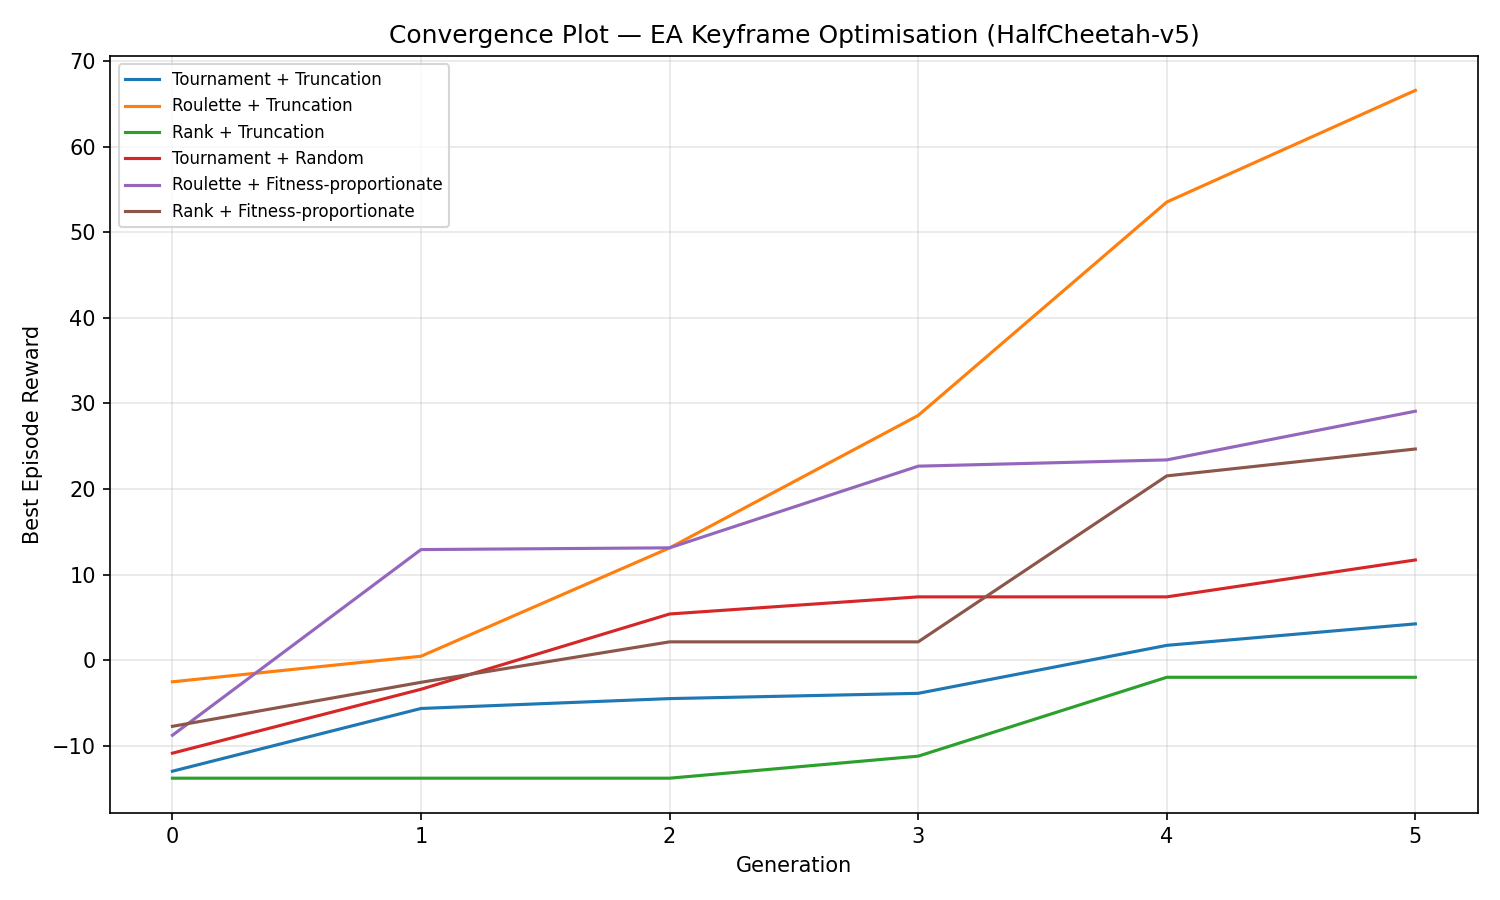
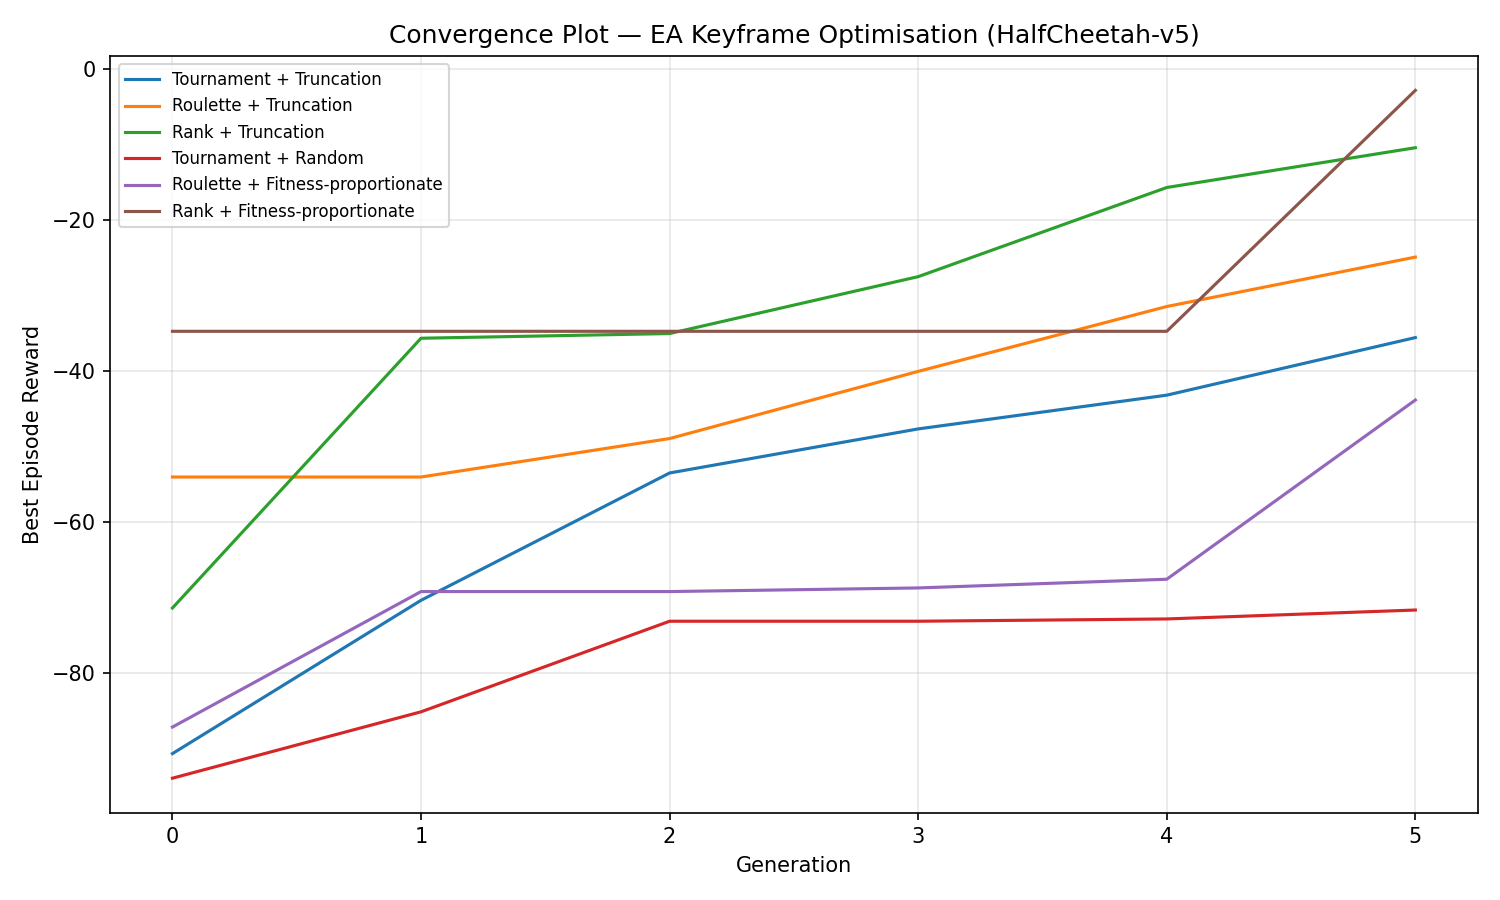
Changed values for smoother run

diff --git a/kf-halfcheetah.py b/kf-halfcheetah.py
@@ -23,24 +23,25 @@ remaining_steps = int(keyframes[keyframe_index][-1])
 episode_reward = 0
 
 while True:
-    # Select action from the current keyframe
-    action = keyframes[keyframe_index][:-1]
+    current_kf = keyframes[keyframe_index][:-1]
+    next_kf    = keyframes[(keyframe_index + 1) % K][:-1]
+    duration   = int(keyframes[keyframe_index][-1])
 
-    # Take a step in the environment
+    # Lerp from current keyframe toward next
+    t      = 1.0 - (remaining_steps / duration)
+    action = (1.0 - t) * current_kf + t * next_kf
+
     observation, reward, terminated, truncated, info = env.step(action)
-    episode_reward += reward
+    episode_reward  += reward
+    remaining_steps -= 1
 
-    env.render()    
-    remaining_steps -= 1 #for keyframe
-
-    # If the keyframe duration is completed, move to the next keyframe
     if remaining_steps == 0:
-        keyframe_index = (keyframe_index + 1) % K  # Cycle through keyframes
+        keyframe_index  = (keyframe_index + 1) % K
         remaining_steps = int(keyframes[keyframe_index][-1])
 
     if terminated or truncated:
         print(f"Episode ended. Total reward: {episode_reward}")
-        episode_reward = 0
+        episode_reward  = 0
         observation, info = env.reset()
-        keyframe_index = 0
+        keyframe_index  = 0
         remaining_steps = int(keyframes[keyframe_index][-1])

diff --git a/config.py b/config.py
@@ -1,16 +1,17 @@
 import numpy as np
 
 # Number of keyframes in the cycle
-K = 5
+K = 6
 
 # Starter keyframes from kf-halfcheetah.py (used as one individual in the initial population)
 # Each keyframe: [torque1, torque2, torque3, torque4, torque5, torque6, duration]
 starter_keyframes = [
-    np.array([-0.10,  0.05, -0.08,  0.12, -0.06,  0.03, 25]),
-    np.array([ 0.20, -0.15,  0.30, -0.10,  0.25, -0.05, 40]),
-    np.array([ 0.40, -0.40,  0.50, -0.30,  0.50, -0.20, 15]),
-    np.array([ 0.50, -0.20,  0.40, -0.15,  0.30, -0.10, 20]),
-    np.array([ 0.10,  0.00, -0.10,  0.05, -0.05,  0.02, 30]),
+    np.array([ 0.9, -0.7,  0.6, -0.6,  0.5, -0.3,  10]),
+    np.array([ 0.5, -0.9,  0.4,  0.5, -0.6,  0.7,  10]),
+    np.array([ 0.3, -0.5,  0.2,  0.8, -0.8,  0.5,   8]),
+    np.array([-0.6,  0.5, -0.3,  0.9, -0.7,  0.6,  10]),
+    np.array([ 0.5, -0.6,  0.7,  0.5, -0.9,  0.4,  10]),
+    np.array([ 0.8, -0.8,  0.5,  0.3, -0.5,  0.2,   8]),
 ]
 
 # EA hyperparameters

diff --git a/fitness.py b/fitness.py
@@ -8,7 +8,17 @@ def evaluate(keyframes, env):
     episode_reward  = 0
 
     while True:
-        # Pick action from current keyframe (all values except the last duration)
+        current_kf= keyframes[keyframe_index][:1]
+        next_kf = keyframes[(keyframe_index+1)%len(keyframes)][:1]
+        duration = int(keyframes[keyframe_index][:1])
+
+        if (duration ==0): 
+            duration=0.1
+            
+        #t goes from 0 to 1 as we move through the keyframe
+        t = 1.0 - (remaining_steps)/duration
+        
+        # Then we pick action from current keyframe (all values except the last duration)
         action = keyframes[keyframe_index][:-1]
 
         observation, reward, terminated, truncated, info = env.step(action)

diff --git a/ea.py b/ea.py
@@ -11,7 +11,7 @@ def random_chromosome(k):
     chromosome = []
 
     for _ in range(k):
-        torques  = np.random.uniform(-0.35, 0.35, 6)
+        torques  = np.random.uniform(-0.8, 0.8, 6)
         duration = float(np.random.randint(5, 51))
         chromosome.append(np.append(torques, duration))
     return chromosome
@@ -63,7 +63,6 @@ def rank_selection(population, fitnesses):
     return population[np.random.choice(len(population), p=probs)]
 
 
-
 def crossover(parent1, parent2):
 
     #One-point crossover -> swap keyframes after a random split point
@@ -86,7 +85,7 @@ def mutate(chromosome):
         mutated[i][j]  = np.clip(mutated[i][j], 5, 50)
     else:
         # torque gene —> change by small amount
-        mutated[i][j] += np.random.uniform(-0.2, 0.2)
+        mutated[i][j] += np.random.uniform(-0.3, 0.3)
         mutated[i][j]  = np.clip(mutated[i][j], -1.0, 1.0)
 
     return mutated

diff --git a/main.py b/main.py
@@ -75,7 +75,7 @@ def main():
     plt.tight_layout()
     plt.savefig("convergence_plot.png", dpi=150)
     plt.close()
-    print("✓ Saved convergence_plot.png")
+    print("Saved convergence_plot.png")
 
     # Print final rewards 
     print("\n── Final Rewards ──")